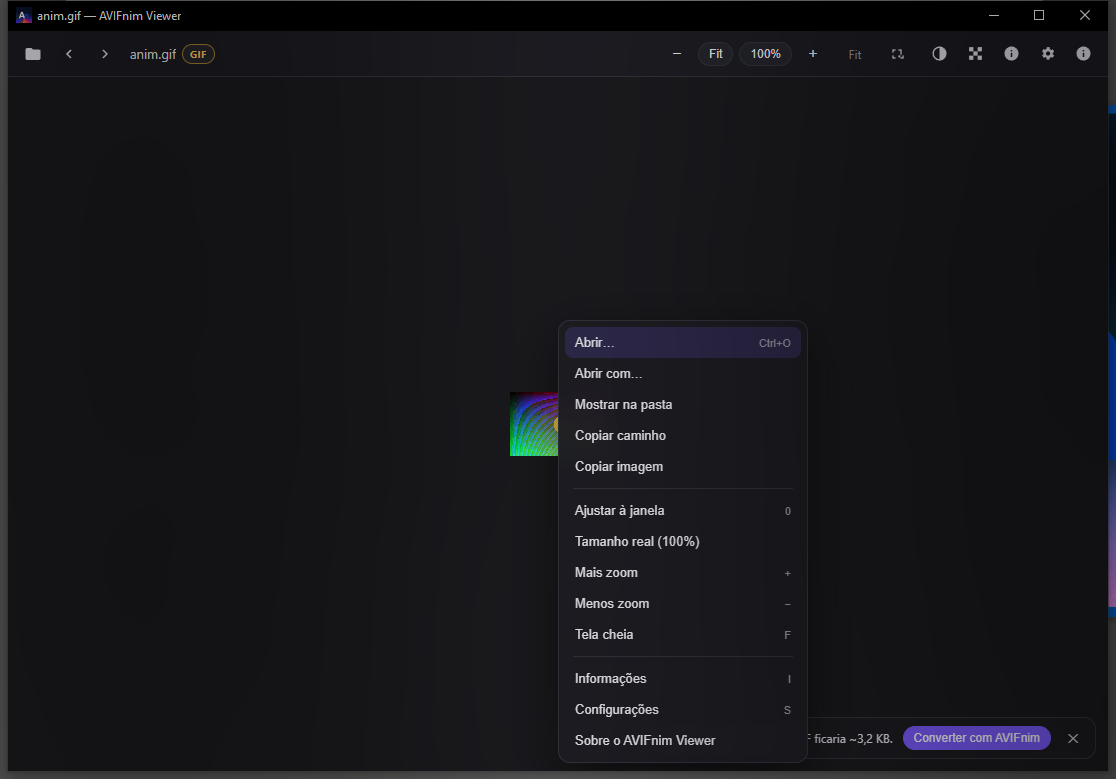
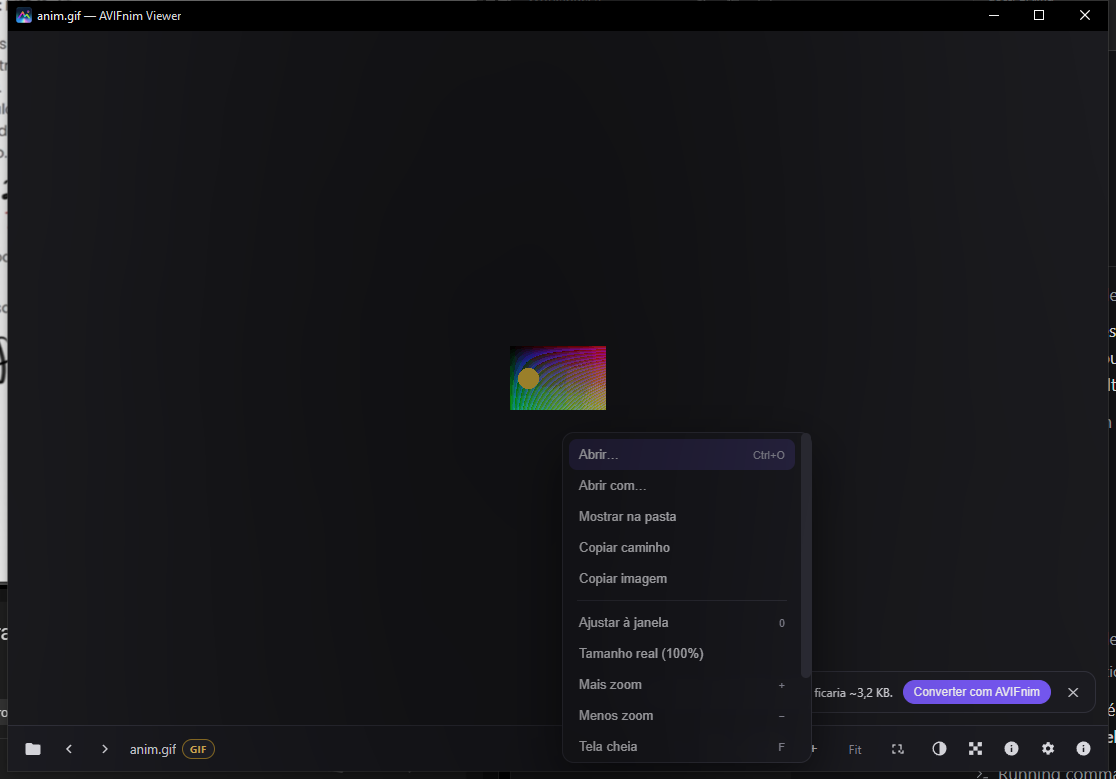
feat(ui): barra de ferramentas no rodape e menu de contexto abrindo para baixo

diff --git a/src/main.js b/src/main.js
@@ -858,12 +858,25 @@ function showCtxMenu(clientX, clientY) {
   const menu = $("ctx-menu");
   if (!menu || !state.current) return;
   menu.classList.remove("hidden");
+  menu.style.maxHeight = "";
+  menu.style.overflowY = "";
   state.ctxOpen = true;
+
+  const gap = 4;
   const rect = menu.getBoundingClientRect();
-  const left = Math.max(8, Math.min(clientX, window.innerWidth - rect.width - 8));
-  const top = Math.max(8, Math.min(clientY, window.innerHeight - rect.height - 8));
-  menu.style.left = left + "px";
-  menu.style.top = top + "px";
+  // Abre sempre para baixo/direita do clique (nunca "sobe" para cima do cursor).
+  let left = clientX + gap;
+  let top = clientY + gap;
+  if (left + rect.width > window.innerWidth - 8) {
+    left = window.innerWidth - rect.width - 8;
+  }
+  if (top + rect.height > window.innerHeight - 8) {
+    // Falta espaco abaixo: mantem o topo no clique e rola o menu internamente.
+    menu.style.maxHeight = Math.max(160, window.innerHeight - top - 8) + "px";
+    menu.style.overflowY = "auto";
+  }
+  menu.style.left = Math.max(8, left) + "px";
+  menu.style.top = Math.max(8, top) + "px";
   const first = menu.querySelector(".ctx-item:not([hidden])");
   if (first) first.focus();
 }
@@ -872,6 +885,8 @@ function hideCtxMenu() {
   const menu = $("ctx-menu");
   if (!menu || menu.classList.contains("hidden")) return;
   menu.classList.add("hidden");
+  menu.style.maxHeight = "";
+  menu.style.overflowY = "";
   state.ctxOpen = false;
 }
 

diff --git a/src/styles.css b/src/styles.css
@@ -40,8 +40,9 @@ body {
 
 .app { display: flex; flex-direction: column; height: 100vh; }
 
-/* ---------- Toolbar ---------- */
+/* ---------- Toolbar (fixa em baixo) ---------- */
 .toolbar {
+  order: 2;
   height: var(--toolbar-h);
   min-height: var(--toolbar-h);
   display: flex;
@@ -49,8 +50,10 @@ body {
   gap: 12px;
   padding: 0 10px;
   background: var(--bg-elev);
-  border-bottom: 1px solid var(--border);
+  border-top: 1px solid var(--border);
 }
+
+.app > .stage { order: 1; }
 
 .tb-group { display: flex; align-items: center; gap: 6px; }
 .tb-left { flex: 1 1 auto; min-width: 0; }
@@ -317,7 +320,7 @@ body {
 
 /* Toast */
 .toast {
-  position: fixed; left: 50%; bottom: 22px; transform: translateX(-50%);
+  position: fixed; left: 50%; bottom: calc(var(--toolbar-h) + 16px); transform: translateX(-50%);
   z-index: 90;
   background: var(--bg-elev-2);
   color: var(--text);
@@ -377,6 +380,7 @@ body {
 /* Fullscreen: apenas a imagem, fundo 100% preto e sem barra de ferramentas */
 body.fs-mode { background: #000 !important; }
 body.fs-mode .toolbar { display: none !important; }
+body.fs-mode .toast { bottom: 22px; }
 body.fs-mode .stage,
 body.fs-mode .stage.checker {
   background: #000 !important;

diff --git a/dist/README.md b/dist/README.md
@@ -2,21 +2,20 @@
 
 Pasta de artefatos locais (binários **não** versionados; README/checksums são).
 
-## Build de teste atual — Windows 0.1.2 (ícone novo)
+## Build de teste atual — Windows 0.1.2 (ícone novo, toolbar inferior)
 
 | Arquivo | Plataforma | Tamanho | SHA-256 |
 |---|---|---|---|
-| `AVIFnim.Viewer_0.1.2_x64-setup.exe` | Windows 10/11 x64 (NSIS) | 1,34 MB | `0ca991f6…5ced6` |
-| `AVIFnim.Viewer_0.1.2_x64-unpacked/AVIFnim Viewer.exe` | Windows x64 **portátil** (sem instalar) | 3,44 MB | `1012a0a1…59e86d` |
+| `AVIFnim.Viewer_0.1.2_x64-setup.exe` | Windows 10/11 x64 (NSIS) | 1,34 MB | `5f1bd2f1…10d07e` |
+| `AVIFnim.Viewer_0.1.2_x64-unpacked/AVIFnim Viewer.exe` | Windows x64 **portátil** (sem instalar) | 3,44 MB | `64cef8c0…b6156e` |
 
 **Portátil (unpacked):** abra `AVIFnim.Viewer_0.1.2_x64-unpacked/AVIFnim Viewer.exe` diretamente —
 não instala, não cria atalhos e não registra associações. Requer o WebView2 Runtime (Windows 10/11
 atualizado já possui). Instruções em `LEIA-ME.txt` dentro da pasta.
 
-Este build **ainda não foi publicado** no GitHub: é para você validar o ícone novo
-(instalador, título da janela, barra de tarefas) e o menu de contexto/duplo clique.
-Quando o visual estiver aprovado, será feito o build final de **todas** as plataformas
-e a publicação da versão correspondente.
+Este build **ainda não foi publicado** no GitHub: é para validar ícone, barra de ferramentas no
+rodapé, menu de contexto, duplo clique e tela cheia. Quando aprovado, será feito o build final de
+**todas** as plataformas e a publicação da versão correspondente.
 
 ## Release atual — v0.1.1 (Linux/macOS)
 

diff --git a/CHANGELOG.md b/CHANGELOG.md
@@ -8,6 +8,9 @@ Formato baseado em [Keep a Changelog](https://keepachangelog.com/pt-BR/1.1.0/).
 ### Alterado
 
 - **Novo ícone do aplicativo** (design do owner, `icone.png` → ícones Windows/macOS/Linux).
+- **Barra de ferramentas movida para o rodapé** da janela (arquivo, navegação, zoom, Fit,
+  tela cheia, informações, configurações e sobre ficam embaixo).
+- **Menu de contexto abre sempre para baixo** do clique (com rolagem interna se faltar espaço).
 - **Modo tela cheia**: fundo 100% preto, barra de ferramentas oculta — apenas a imagem
   (Esc ou F para sair).
 - **Menu nativo do webview suprimido**: sem imagem carregada não aparece nenhum menu; com imagem,
